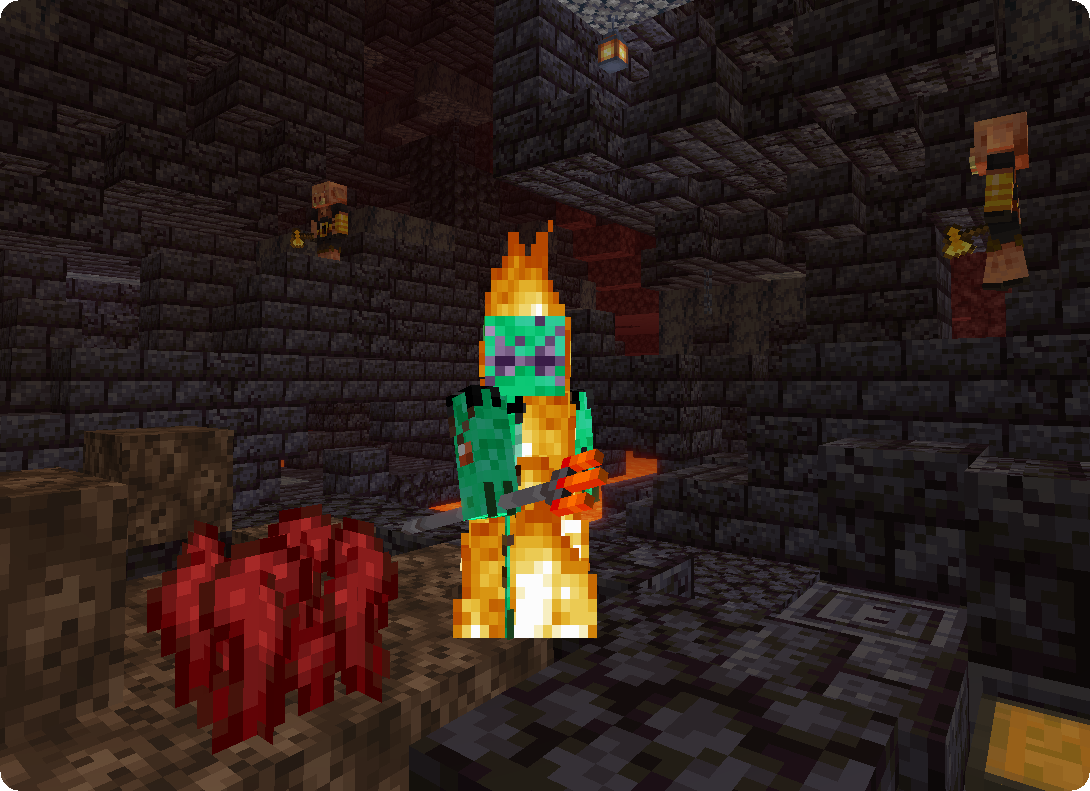
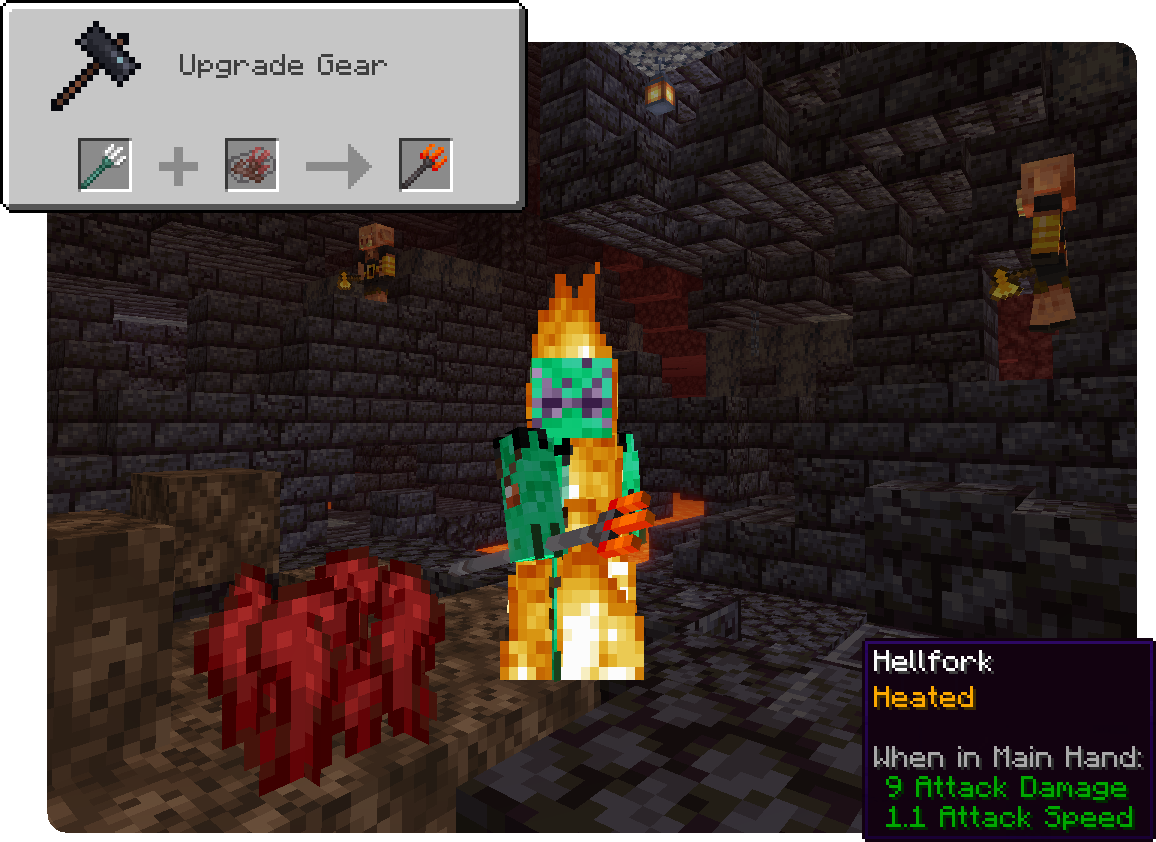
Impaled Wiki Update

diff --git a/wiki/impaled.md b/wiki/impaled.md
@@ -5,7 +5,11 @@ slug: impaled
 ---
 # Impaled
 
-**Impaled** is a fabric 1.17 mod that adds a few new tridents to the game and reworks some of the mechanics evolving around them.
+*[![img](https://img.shields.io/discord/292744693803122688?color=informational&label=Ladysnake&logo=Discord)](https://ladysnake.glitch.me)[![img](http://cf.way2muchnoise.eu/full_impaled_downloads.svg)](https://www.curseforge.com/minecraft/mc-mods/impaled)[![img](http://cf.way2muchnoise.eu/versions/minecraft_impaled_latest.svg)](https://www.curseforge.com/minecraft/mc-mods/impaled)[![img](https://img.shields.io/github/last-commit/ladysnake/impaled)](https://github.com/ladysnake/impaled/commits/main)*
+
+**Impaled** is a fabric 1.17 mod that adds a few new tridents to the game and reworks some of the mechanics revolving around them. This mod is compatible with the [Canvas Renderer](https://www.curseforge.com/minecraft/mc-mods/canvas-renderer).
+
+[![Showcase Video](https://img.youtube.com/vi/9JhblcRTRu8/0.jpg)](https://www.youtube.com/watch?v=9JhblcRTRu8)
 
 ## Wiki
 
@@ -39,13 +43,11 @@ There are 4 new Tridents added by Impaled:
 
 The Pitchfork is an early-game version of the Trident. It has reduced durability compared to the actual Trident and does not work properly underwater. Nonetheless it can be thrown and used in melee combat, enchanted with all the Trident-Enchantments and even be used to convert dirt to farmland.
 
-![Pitchfork](impaled/Pitchfork.png){: .wiki}
-
 ##### Obtaining
 
 The Pitchfork can be crafted using 3 Iron Bars and 2 Sticks:
 
-![Pitchfork Recipe](impaled/PitchforkRecipe.png){: .wiki}
+![Pitchfork](impaled/Pitchfork.png){: .wiki}
 
 #### Elder Trident
 
@@ -55,13 +57,11 @@ If a Riptide-Elder Trident is used it will create 1 Guardian Trident per Riptide
 
 In addition to the normal behaviour of Channelling during storms, hitting a player with an Elder Trident will affect them like an Elder Guardian, appearing before them and affecting them with Mining Fatigue. This feature is, unlike the thunderstrike, not limited to thunderstorms.
 
-![Elder Trident](impaled/ElderTrident.png){: .wiki}
-
 ##### Obtaining
 
 And Elder Trident is obtained by combining a normal Trident with an Elder Guardian Eye in the Smithing Table. Elder Guardian Eyes are obtained by killing an Elder Guardian using a Trident in a melee attack or a Loyalty III- or Loyalty IV-Trident.
 
-![Elder Trident Recipe](impaled/ElderTridentRecipe.png){: .wiki}
+![Elder Trident Recipe](impaled/ElderTrident.png){: .wiki}
 
 #### Hellfork
 
@@ -73,27 +73,21 @@ Riptide-Hellforks are based on fire instead of water: To use Riptide the player 
 
 Impaling-Hellforks deal 1 more damage to fire resistant mobs per level, including those with the Fire Resistance Effect, instead of wet mobs.
 
-![Hellfork](impaled/Hellfork.png){: .wiki}
-
 ##### Obtaining
 
 To obtain a Hellfork, combine a Trident and an Ancient Trident in a Smithing Table. Ancient Tridents are immune to fire and lava and can be found in Treasure Bastion Remnants with a 60% chance.
 
-![Hellfork Recipe](impaled/HellforkRecipe.png){: .wiki}
+![Hellfork Recipe](impaled/Hellfork.png){: .wiki}
 
 #### Atlan
 
 The Atlan is a golden Trident with a high enchantability. It accepts not only Trident-Enchantments but also all Sword-Enchantments like Fire Aspect, Sweeping Edge or Smite.
 
-![Atlan](impaled/Atlan.png){: .wiki}
-
-![Atlan Enchantments](impaled/AtlanEnchantments.png){: .wiki}
-
 ##### Obtaining
 
 The Atlan is obtained by combining an Enchanted Golden Apple with a Trident in a Smithing Table.
 
-![Atlan Recipe](impaled/AtlanRecipe.png){: .wiki}
+![Atlan Recipe](impaled/Atlan.png){: .wiki}
 
 ### Experimental
 
@@ -102,3 +96,23 @@ The Atlan is obtained by combining an Enchanted Golden Apple with a Trident in a
 The Maelstrom is an (currently creative-only) item that allows you to launch Tridents from your inventory without charging time but instead a cooldown afterwards, allowing for faster reactions. It can be enchanted with Unbreaking, Mending and Efficiency, the latter to reduce the cooldown.
 
 ![Maelstrom](impaled/Maelstrom.png){: .wiki}
+
+## FAQ
+
+#### Can I include this mod in a modpack?
+
+**Yes**, you can. Go ahead, don't bother asking. Please  however provide credit and a link to both the GitHub repository and  Curse Forge project page.
+
+#### Will you be making a Forge version? Does a Forge version exist?
+
+**No**, I will not be making a Forge version of this mod. We do welcome third-party ports however, so feel free to [come chat with us](https://ladysnake.glitch.me) about it if you feel like doing one.
+
+
+
+## Gallery
+
+![Hellforks](impaled/Hellforks.jpg){: .wiki}
+
+![Atlans](impaled/Atlans.jpg){: .wiki}
+
+![Atlan Enchantments](impaled/AtlanEnchantmentsRAT.png){: .wiki}
